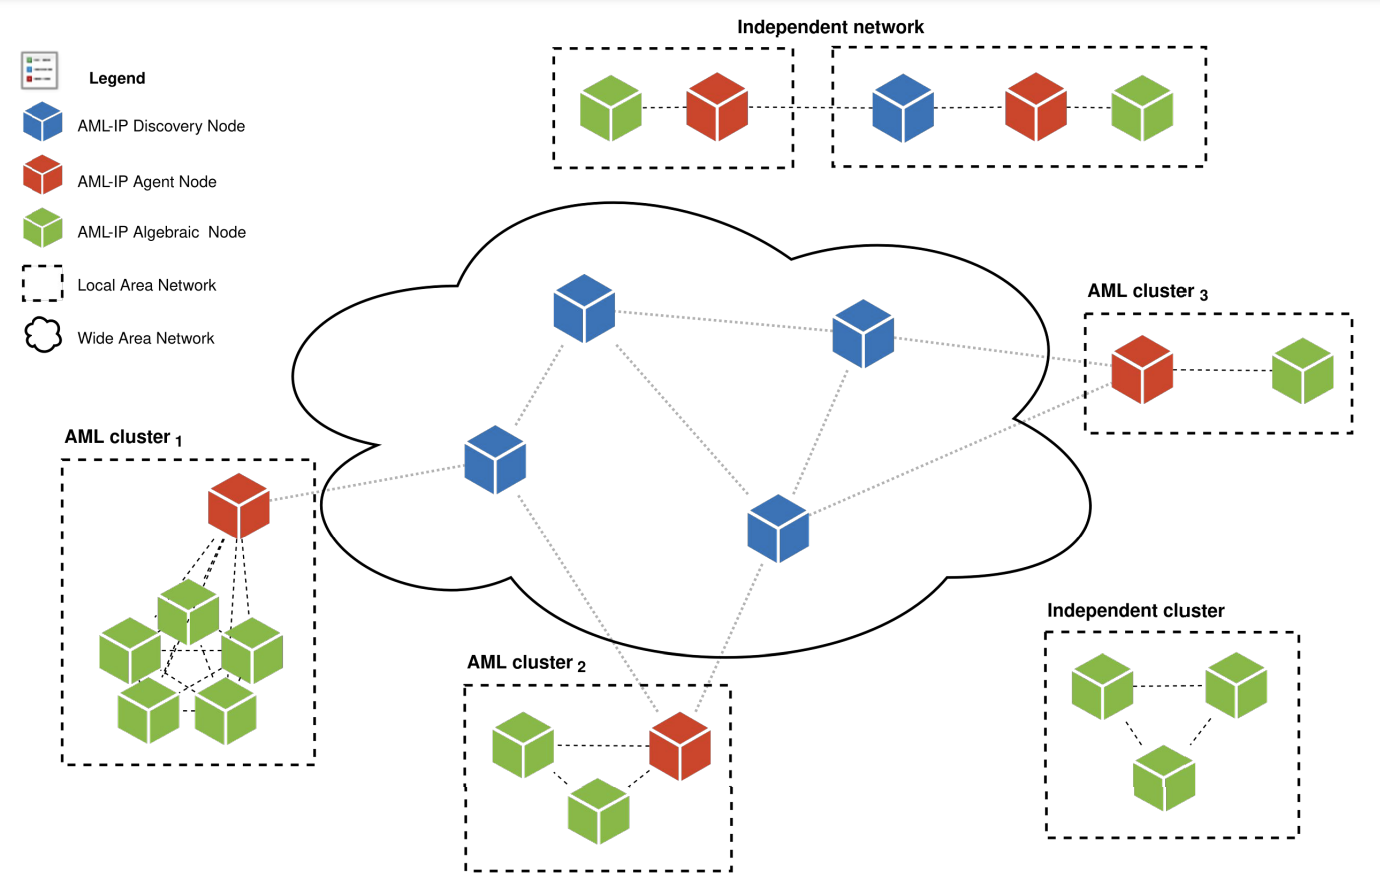
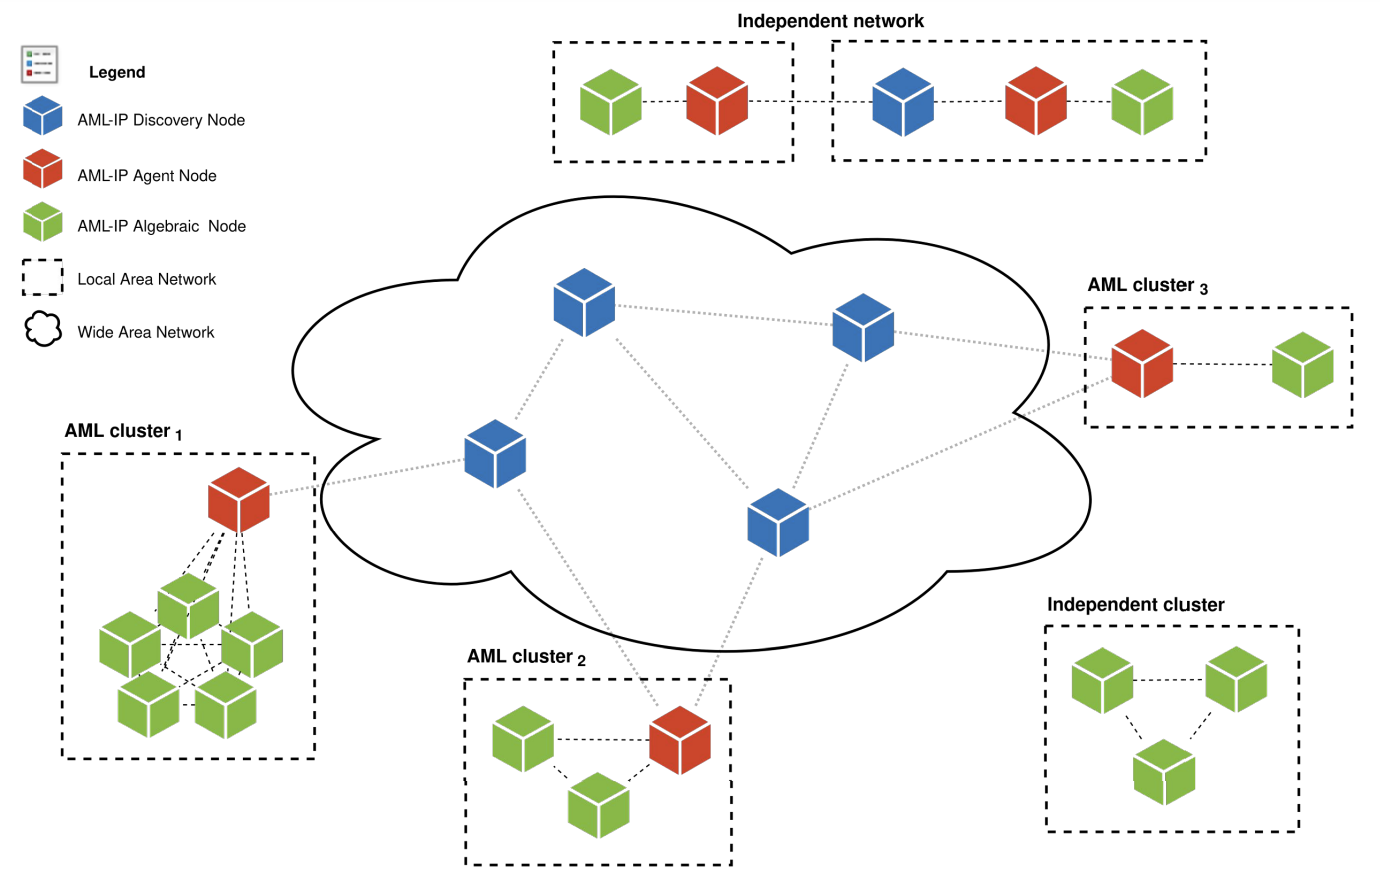
Refs #16503: fix small details

diff --git a/amlip_docs/rst/developer_manual/installation/sources/windows/windows.rst b/amlip_docs/rst/developer_manual/installation/sources/windows/windows.rst
@@ -31,7 +31,7 @@ These are the packages of |amlip| and the dependencies between them:
 
 .. warning::
 
-    |amlip| does not support Python API for Windows due to `<some issues https://bugs.python.org/issue46276>`_.
+    |amlip| does not support Python API for Windows due to `some issues <https://bugs.python.org/issue46276>`_.
 
 Dependencies
 ============

diff --git a/amlip_docs/rst/getting_started/project_overview.rst b/amlip_docs/rst/getting_started/project_overview.rst
@@ -80,7 +80,7 @@ The API, implementation and testing of this part of the code can be found mainly
 
 .. warning::
 
-    |amlip| does not support Python API for Windows due to `<some issues https://bugs.python.org/issue46276>`_.
+    |amlip| does not support Python API for Windows due to `some issues <https://bugs.python.org/issue46276>`_.
 
 .. note::
 

diff --git a/amlip_docs/rst/installation/windows.rst b/amlip_docs/rst/installation/windows.rst
@@ -14,4 +14,4 @@ AML-IP on Windows
 
 .. warning::
 
-    |amlip| does not support Python API for Windows due to `<some issues https://bugs.python.org/issue46276>`_.
+    |amlip| does not support Python API for Windows due to `some issues <https://bugs.python.org/issue46276>`_.

diff --git a/amlip_docs/rst/formalia/titlepage.rst b/amlip_docs/rst/formalia/titlepage.rst
@@ -35,7 +35,6 @@ facilitate trust and reliability and integrate complex ethical constraints into 
 Furthermore, they are expected to promote distributed, collaborative learning.
 
 .. figure:: /rst/figures/aml_overview.png
-    :scale: 50 %
 
 ########
 Overview
